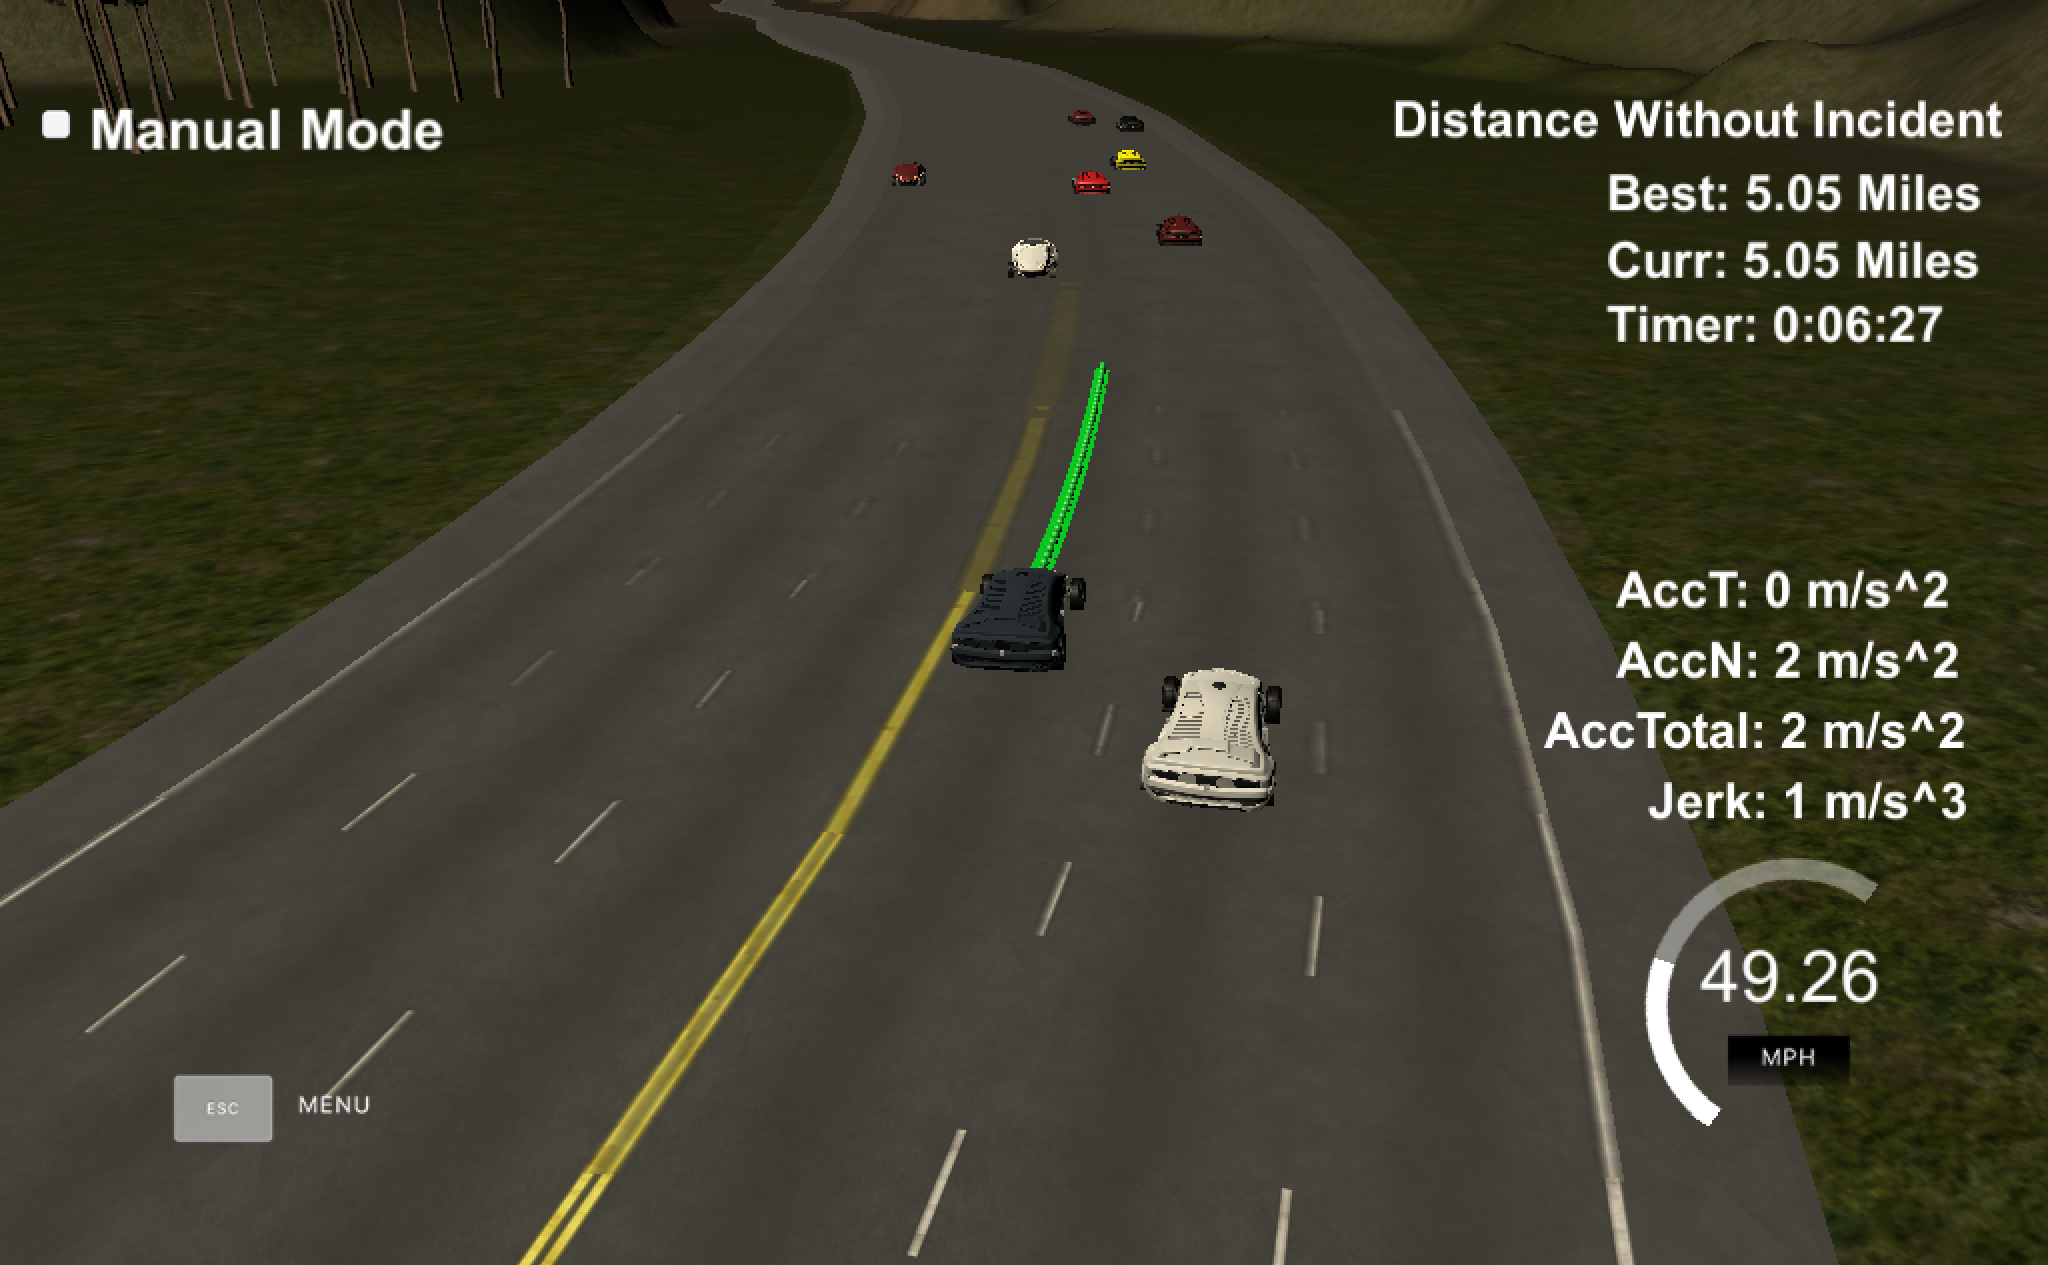
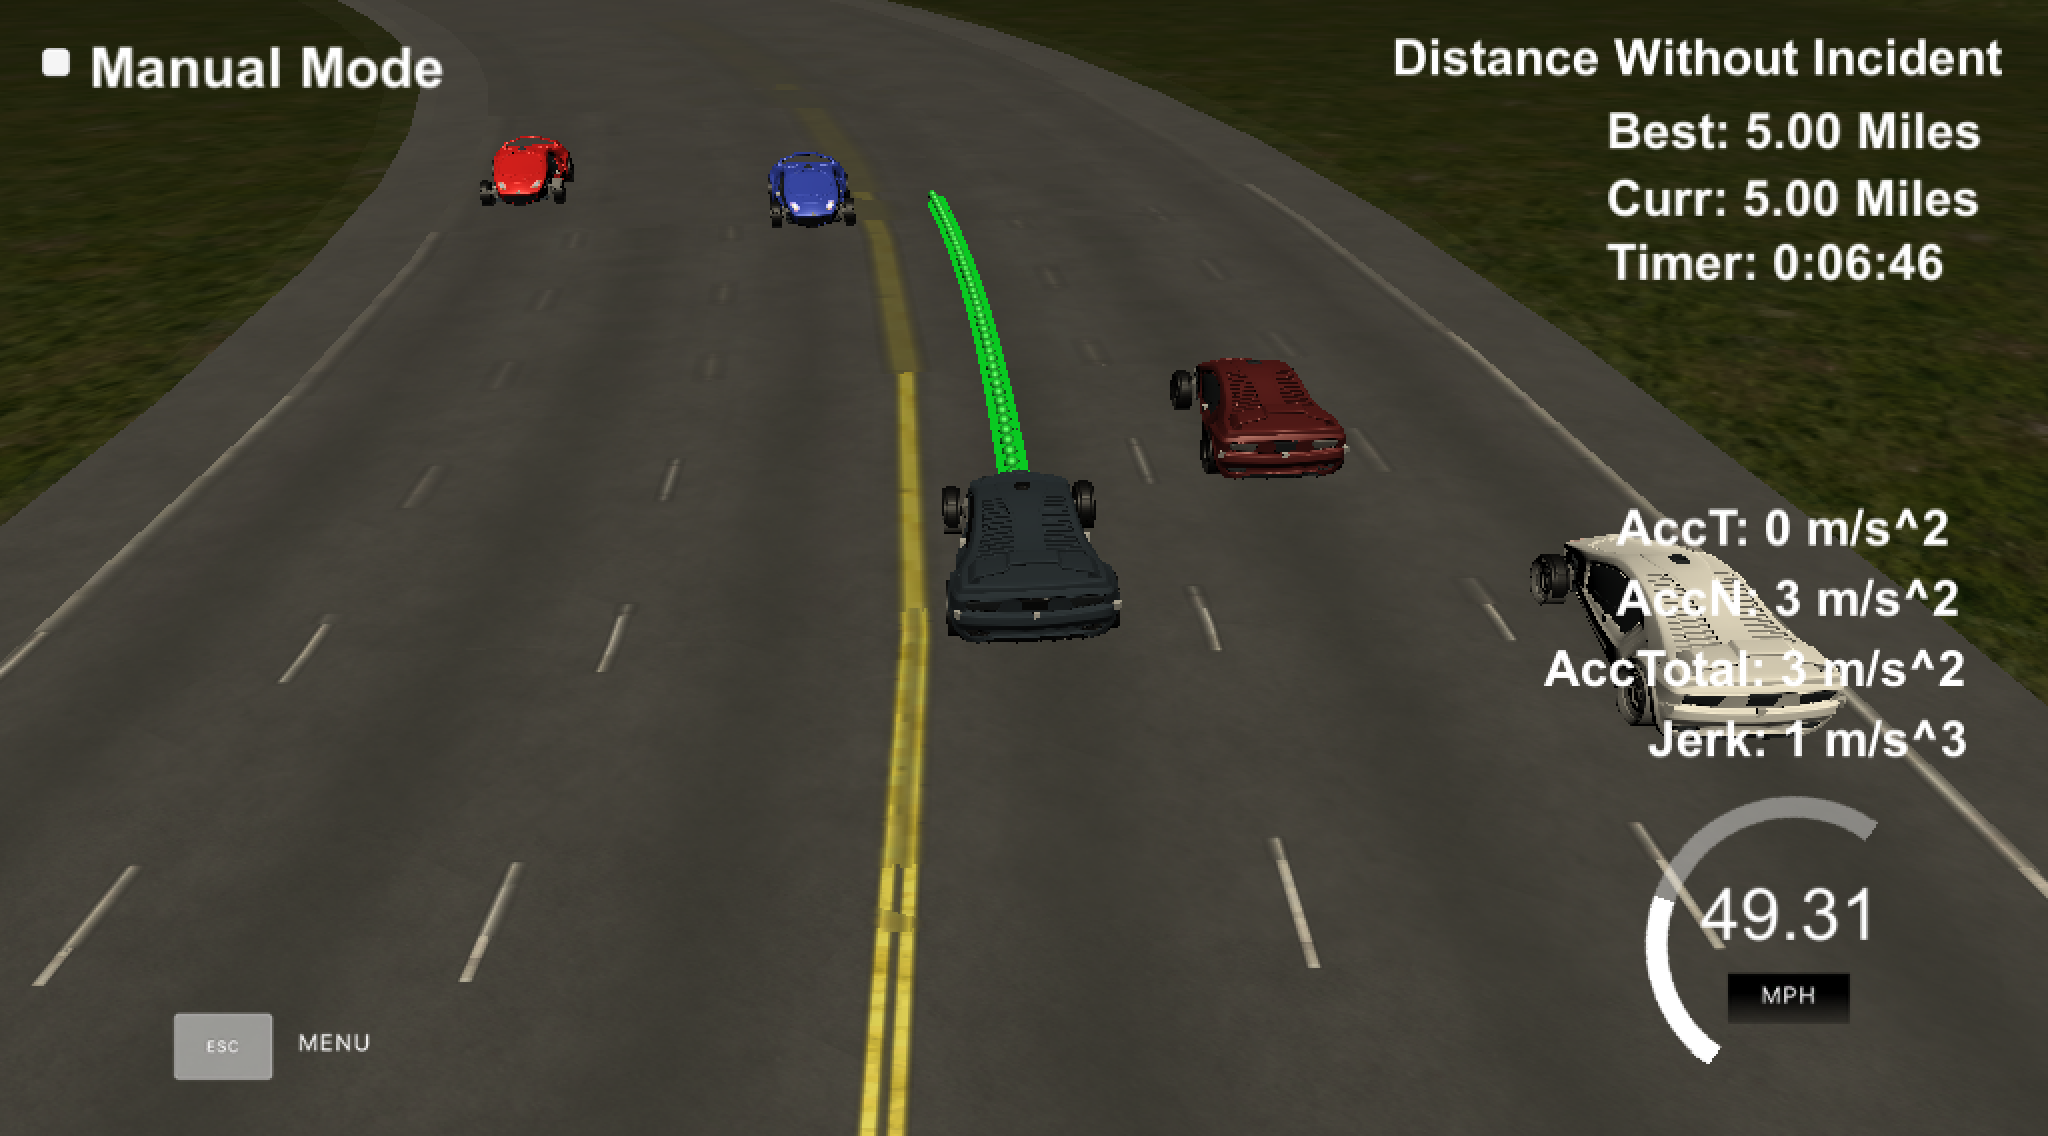
README

diff --git a/README.md b/README.md
@@ -1,9 +1,11 @@
 # Path Planning Project
 
-Udacity Self-Driving Car Nanodegree - Term 3, Project 1
+Udacity Self-Driving Car Engineer Nanodegree Program - Term 3, Project 1
 
 [//]: # (Image References)
-[5mi]: ./5mi.png "5 mi"
+[5mi]: ./5mi.png "5 miles"
+[15mi]: ./15mi.png "15 miles"
+[20mi]: ./20mi.png "20 miles"
 
 # [Rubric](https://review.udacity.com/#!/rubrics/1020/view) points
 
@@ -21,9 +23,9 @@ A new file was added to the project: [```src/spline.h```](./src/spline.h). It is
 
 ### The car is able to drive at least 4.32 miles without incident
 
-[todo]
+The car has managed to drive incident-free over 4.32 miles multiple times.
 
-![5 mi][5mi]
+![5 miles][5mi]
 
 | Additional requirements                                               | Status |
 | --------------------------------------------------------------------- |:------:|
@@ -55,12 +57,177 @@ This code segment deals with sensor fusion data. It intents to scan the environm
 - Is there a car on the left of us making a lane change unsafe?
 - Is there a car on the right of us making a lane change unsafe?
 
-The code segment answers these question by iterating through all other vehicles that have been recognized with sensor fusion.
+The code segment answers these question by iterating through all other vehicles that have been recognized with sensor fusion. A car is considered "dangerous" when its distance (```s```-value) to our car is less than 30 meters.
 
-### Determine best trajectory
+### Determine best behaviour
 
+This code segment decides what to do. 
 
+- If we have a car in front of us, is it safe to change lanes?
+- When do we slow down or speed up?
+- If we aren't on the center lane, is it safe to change lanes back to center lane?
+
+Based on the prediction our car is going to be in, this code segment increases or decreases the velocity or initiates a lane change when it's safe. The reason to drive as much as possible on the center lane is the given possibility to change lanes to either side when we are approaching a slower car that is driving in front of us.
 
 ### Generate new path
 
+This code segment plans the new path based on the target velocity and target lane. The new path starts with a certain number of pionts from the previous path. From there a spline is generated beginning with the last two points of the previous path (or the current position, heading and velocity if no previous path exists) and ending with three points 30, 60, and 90 meters ahead on the target lane.
 
+The spline produces a really smooth ```(x,y)```-trajectory. To prevent excessive jerk and acceleration, the car's velocity is only allowed to increase and decrease by a small amount for reaching the target velocity. The corresponding next ```(x,y)```-points are solely calculated along the ```x```- and ```y```-splines created earlier.
+
+### Conclusion
+
+The resulting path planner works well, but still not perfectly. The rudimentally structured code block of the behavior planner could be improved by implementing a real finite state maschine, that also considers real cost functions instead of the 60 meters gap search to achieve a more intelligent driving approach.
+
+Nevertheless, I am very satisfied with the resulting path planner and its performance. It has managed to accumulate incident-free 10+ mile drives multiple times (see images below).
+
+![15 miles][15mi]
+![20 miles][20mi]
+
+*The description below is Udacity's original README from the [seed project](https://github.com/udacity/CarND-Path-Planning-Project).*
+
+---
+
+# CarND-Path-Planning-Project
+
+Self-Driving Car Engineer Nanodegree Program
+   
+### Simulator
+
+You can download the Term3 Simulator which contains the Path Planning Project from the [releases tab (https://github.com/udacity/self-driving-car-sim/releases/tag/T3_v1.2).
+
+### Goals
+
+In this project your goal is to safely navigate around a virtual highway with other traffic that is driving +-10 MPH of the 50 MPH speed limit. You will be provided the car's localization and sensor fusion data, there is also a sparse map list of waypoints around the highway. The car should try to go as close as possible to the 50 MPH speed limit, which means passing slower traffic when possible, note that other cars will try to change lanes too. The car should avoid hitting other cars at all cost as well as driving inside of the marked road lanes at all times, unless going from one lane to another. The car should be able to make one complete loop around the 6946m highway. Since the car is trying to go 50 MPH, it should take a little over 5 minutes to complete 1 loop. Also the car should not experience total acceleration over 10 m/s^2 and jerk that is greater than 10 m/s^3.
+
+#### The map of the highway is in data/highway_map.txt
+
+Each waypoint in the list contains  [x,y,s,dx,dy] values. x and y are the waypoint's map coordinate position, the s value is the distance along the road to get to that waypoint in meters, the dx and dy values define the unit normal vector pointing outward of the highway loop.
+
+The highway's waypoints loop around so the frenet s value, distance along the road, goes from 0 to 6945.554.
+
+## Basic Build Instructions
+
+1. Clone this repo.
+2. Make a build directory: `mkdir build && cd build`
+3. Compile: `cmake .. && make`
+4. Run it: `./path_planning`.
+
+Here is the data provided from the Simulator to the C++ Program
+
+#### Main car's localization Data (No Noise)
+
+["x"] The car's x position in map coordinates
+
+["y"] The car's y position in map coordinates
+
+["s"] The car's s position in frenet coordinates
+
+["d"] The car's d position in frenet coordinates
+
+["yaw"] The car's yaw angle in the map
+
+["speed"] The car's speed in MPH
+
+#### Previous path data given to the Planner
+
+//Note: Return the previous list but with processed points removed, can be a nice tool to show how far along
+the path has processed since last time. 
+
+["previous_path_x"] The previous list of x points previously given to the simulator
+
+["previous_path_y"] The previous list of y points previously given to the simulator
+
+#### Previous path's end s and d values 
+
+["end_path_s"] The previous list's last point's frenet s value
+
+["end_path_d"] The previous list's last point's frenet d value
+
+#### Sensor Fusion Data, a list of all other car's attributes on the same side of the road. (No Noise)
+
+["sensor_fusion"] A 2d vector of cars and then that car's [car's unique ID, car's x position in map coordinates, car's y position in map coordinates, car's x velocity in m/s, car's y velocity in m/s, car's s position in frenet coordinates, car's d position in frenet coordinates. 
+
+## Details
+
+1. The car uses a perfect controller and will visit every (x,y) point it recieves in the list every .02 seconds. The units for the (x,y) points are in meters and the spacing of the points determines the speed of the car. The vector going from a point to the next point in the list dictates the angle of the car. Acceleration both in the tangential and normal directions is measured along with the jerk, the rate of change of total Acceleration. The (x,y) point paths that the planner recieves should not have a total acceleration that goes over 10 m/s^2, also the jerk should not go over 50 m/s^3. (NOTE: As this is BETA, these requirements might change. Also currently jerk is over a .02 second interval, it would probably be better to average total acceleration over 1 second and measure jerk from that.
+
+2. There will be some latency between the simulator running and the path planner returning a path, with optimized code usually its not very long maybe just 1-3 time steps. During this delay the simulator will continue using points that it was last given, because of this its a good idea to store the last points you have used so you can have a smooth transition. previous_path_x, and previous_path_y can be helpful for this transition since they show the last points given to the simulator controller with the processed points already removed. You would either return a path that extends this previous path or make sure to create a new path that has a smooth transition with this last path.
+
+## Tips
+
+A really helpful resource for doing this project and creating smooth trajectories was using http://kluge.in-chemnitz.de/opensource/spline/, the spline function is in a single hearder file is really easy to use.
+
+---
+
+## Dependencies
+
+* cmake >= 3.5
+  * All OSes: [click here for installation instructions](https://cmake.org/install/)
+* make >= 4.1
+  * Linux: make is installed by default on most Linux distros
+  * Mac: [install Xcode command line tools to get make](https://developer.apple.com/xcode/features/)
+  * Windows: [Click here for installation instructions](http://gnuwin32.sourceforge.net/packages/make.htm)
+* gcc/g++ >= 5.4
+  * Linux: gcc / g++ is installed by default on most Linux distros
+  * Mac: same deal as make - [install Xcode command line tools]((https://developer.apple.com/xcode/features/)
+  * Windows: recommend using [MinGW](http://www.mingw.org/)
+* [uWebSockets](https://github.com/uWebSockets/uWebSockets)
+  * Run either `install-mac.sh` or `install-ubuntu.sh`.
+  * If you install from source, checkout to commit `e94b6e1`, i.e.
+    ```
+    git clone https://github.com/uWebSockets/uWebSockets 
+    cd uWebSockets
+    git checkout e94b6e1
+    ```
+
+## Editor Settings
+
+We've purposefully kept editor configuration files out of this repo in order to
+keep it as simple and environment agnostic as possible. However, we recommend
+using the following settings:
+
+* indent using spaces
+* set tab width to 2 spaces (keeps the matrices in source code aligned)
+
+## Code Style
+
+Please (do your best to) stick to [Google's C++ style guide](https://google.github.io/styleguide/cppguide.html).
+
+## Project Instructions and Rubric
+
+Note: regardless of the changes you make, your project must be buildable using
+cmake and make!
+
+## Call for IDE Profiles Pull Requests
+
+Help your fellow students!
+
+We decided to create Makefiles with cmake to keep this project as platform
+agnostic as possible. Similarly, we omitted IDE profiles in order to ensure
+that students don't feel pressured to use one IDE or another.
+
+However! I'd love to help people get up and running with their IDEs of choice.
+If you've created a profile for an IDE that you think other students would
+appreciate, we'd love to have you add the requisite profile files and
+instructions to ide_profiles/. For example if you wanted to add a VS Code
+profile, you'd add:
+
+* /ide_profiles/vscode/.vscode
+* /ide_profiles/vscode/README.md
+
+The README should explain what the profile does, how to take advantage of it,
+and how to install it.
+
+Frankly, I've never been involved in a project with multiple IDE profiles
+before. I believe the best way to handle this would be to keep them out of the
+repo root to avoid clutter. My expectation is that most profiles will include
+instructions to copy files to a new location to get picked up by the IDE, but
+that's just a guess.
+
+One last note here: regardless of the IDE used, every submitted project must
+still be compilable with cmake and make./
+
+## How to write a README
+
+A well written README file can enhance your project and portfolio.  Develop your abilities to create professional README files by completing [this free course](https://www.udacity.com/course/writing-readmes--ud777).
